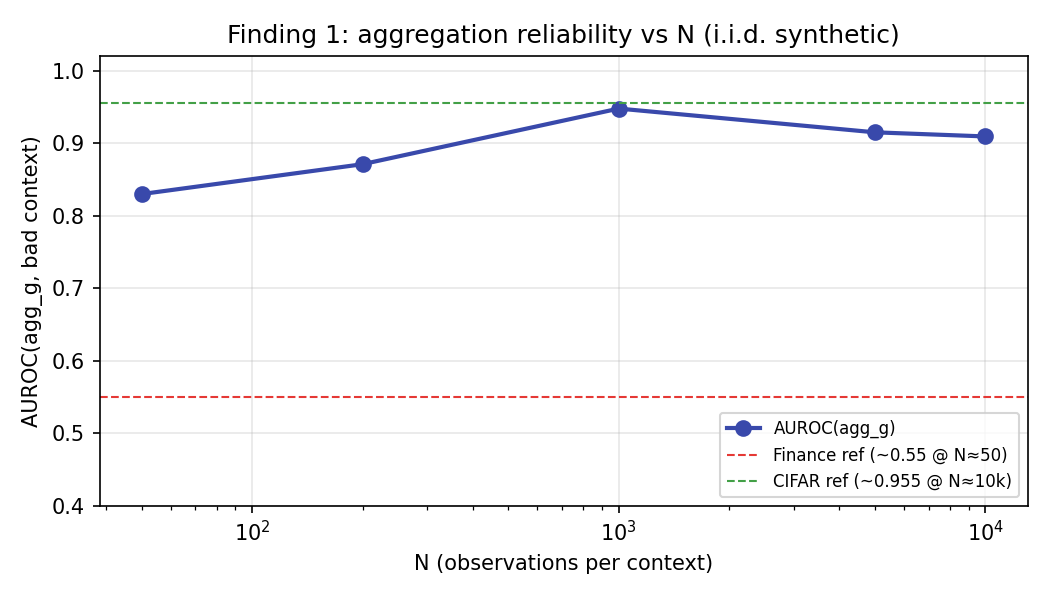
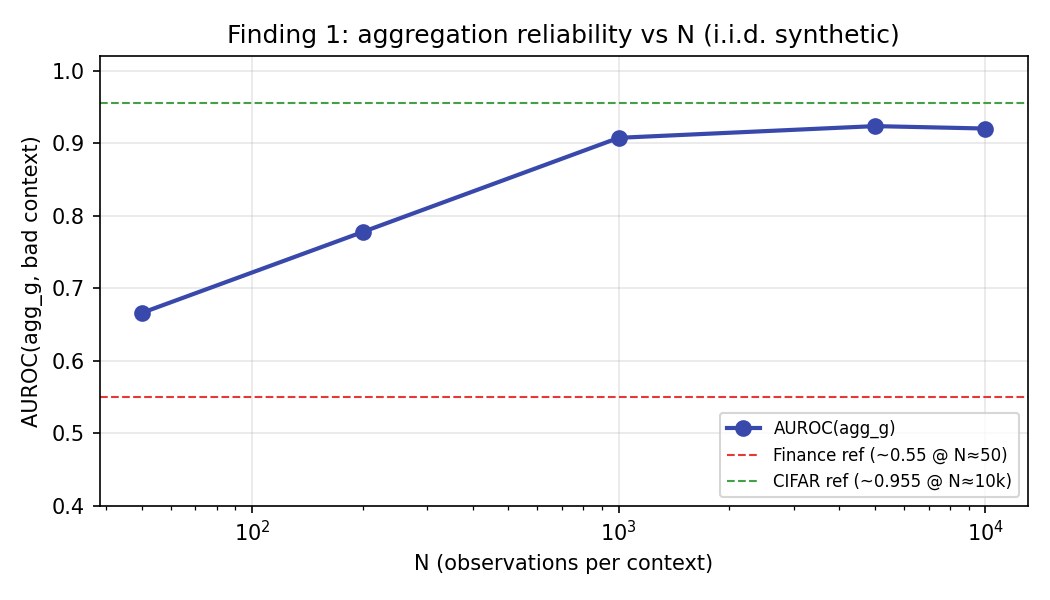
Docs: Harvard-style Sanderink (2026) citations in theory and math
Add full reference for When Alpha Breaks across theory, reliability,
decomposition, CITATION.cff, and source docstrings. Bump to v0.4.2.

diff --git a/src/deup/core/decompose.py b/src/deup/core/decompose.py
@@ -3,15 +3,15 @@
 This module turns the raw error estimate ``g(x)`` into a reported epistemic signal:
 
 - :func:`decompose_epistemic` — ``e_hat(x) = max(0, g(x) - a(x))`` (Lahlou et al.,
-  2023, Eq. 9, with the non-negativity clip used in the thesis).
+  2023, Eq. 9, with the non-negativity clip used in Sanderink, 2026).
 - :class:`RankResidualizer` — removes mechanical rank-geometry coupling from a
-  cross-sectional signal (RESEARCH_FINDINGS Finding 3). Required for rankers, where
+  cross-sectional signal (Sanderink, 2026, Finding 3). Required for rankers, where
   ``g`` / the loss target can be partly explained by the within-group rank of the
   model score rather than genuine error.
 - :func:`coupling_retention_report` — quantifies coupling reduction and loss-association
   retention before/after residualization.
 - :func:`density_kill_criterion` — drops density features that add no signal beyond
-  geometry (Finding 3 corollary), with an explicit keep/kill flag.
+  geometry (Sanderink, 2026, Finding 3 corollary), with an explicit keep/kill flag.
 """
 
 from __future__ import annotations

diff --git a/src/deup/core/features/density.py b/src/deup/core/features/density.py
@@ -19,7 +19,7 @@ def _diagonal_gaussian_log_prob(
     mu: npt.NDArray[Any],
     log_sigma2: npt.NDArray[Any],
 ) -> npt.NDArray[Any]:
-    """Closed-form diagonal-Gaussian log-density (thesis ``GaussianDensity.log_prob``).
+    """Closed-form diagonal-Gaussian log-density (Sanderink, 2026, ``GaussianDensity.log_prob``).
 
     log p(x) = -0.5 * sum_d [(x_d - mu_d)^2 / sigma2_d + log sigma2_d]
                - D/2 * log(2*pi)
@@ -39,7 +39,7 @@ class DensityFeature(BaseEstimator, TransformerMixin):
     Parameters
     ----------
     method:
-        ``"mahalanobis"`` — diagonal Gaussian MLE (Lee et al. 2018 / thesis default).
+        ``"mahalanobis"`` — diagonal Gaussian MLE (Lee et al. 2018; Sanderink, 2026 default).
         ``"knn"`` — ``-log(d_k + eps)`` where ``d_k`` is the k-th NN distance.
         ``"kde"`` — sklearn ``KernelDensity`` with Gaussian kernel.
         ``"flow"`` — normalizing flow (requires ``pip install "deup[torch]"``).

diff --git a/src/deup/diagnostics/aggregation.py b/src/deup/diagnostics/aggregation.py
@@ -6,8 +6,8 @@ error -- but only as ``N -> large`` and only if the within-context errors are
 exchangeable. With small N and temporal-regime dependence, the estimator's variance
 and bias swamp the signal.
 
-Empirical reference points (Sanderink, 2026), to be read as orientation, **not** as a
-hard promise for a user's data:
+Empirical reference points (Sanderink, 2026, *When Alpha Breaks*), to be read as
+orientation, **not** as a hard promise for a user's data:
 
     AUROC(agg_g, bad context) ~ 0.55  at N ~ 50  (non-i.i.d. finance cross-sections)
     AUROC(agg_g, bad context) ~ 0.955 at N ~ 10,000 (i.i.d. vision batches)

diff --git a/src/deup/domains/finance.py b/src/deup/domains/finance.py
@@ -3,7 +3,7 @@
 ``CrossSectionalDEUP`` wires :class:`~deup.estimators.DEUPRanker` with
 :class:`~deup.splitters.PurgedWalkForward`, rank-geometry residualization,
 vol/breadth/regime feature columns, and a default :class:`~deup.diagnostics.HealthIndex`
-for context-level gating in the low-N / non-i.i.d. regime (Finding 2).
+for context-level gating in the low-N / non-i.i.d. regime (Sanderink, 2026, Finding 2).
 """
 
 from __future__ import annotations

diff --git a/docs/theory.md b/docs/theory.md
@@ -1,9 +1,10 @@
 # Theory & mathematics
 
 This page summarizes the DEUP framework as defined by Lahlou *et al.* (2023,
-[TMLR](https://arxiv.org/abs/2102.08501)) and the risk decomposition used in this
-library. The implementation follows **Algorithm 2** (K-fold pre-fill of the error
-dataset) for honest out-of-sample error targets.
+[TMLR](https://arxiv.org/abs/2102.08501)) and extensions for cross-sectional ranking,
+aggregation reliability, and two-level deployment from Sanderink (2026). The
+implementation follows **Algorithm 2** (K-fold pre-fill of the error dataset) for
+honest out-of-sample error targets.
 
 ## Risk decomposition
 
@@ -145,10 +146,11 @@ $$
 
 `DensityFeature(method="mahalanobis")` implements this closed-form estimator.
 
-!!! note "Finding 3 — density can be null"
+!!! note "Finding 3 — density can be null (Sanderink, 2026)"
     In homogeneous tabular/finance universes, density features may add **no signal**
     beyond rank geometry. Treat density as **optional and ablatable**; rank-geometry
-    residualization (P6) is required for cross-sectional rankers.
+    residualization (P6) is required for cross-sectional rankers (Sanderink, 2026,
+    Finding 3).
 
 ## Mapping to library objects
 
@@ -168,25 +170,29 @@ flowchart LR
 `deup`'s ranking support (`DEUPRanker`, rank loss, rank-geometry residualization)
 extends DEUP from regression/classification to **cross-sectional ranking** by
 predicting *rank displacement* and defining an epistemic signal $\hat{e}$ relative to
-a point-in-time (PIT-safe) baseline. Two empirical findings motivate the library design:
+a point-in-time (PIT-safe) baseline (Sanderink, 2026). Two empirical findings from
+that work motivate the library design:
 
-- **Rank-geometry coupling.** $\hat{e}$ is structurally coupled with signal strength
+- **Rank-geometry coupling (Finding 3).** $\hat{e}$ is structurally coupled with signal strength
   (median per-date correlation between $\hat{e}$ and $|\text{score}|$ ≈ 0.6), so naive
   inverse-uncertainty sizing de-levers the strongest signals. This motivates the
   optional rank-geometry residualization in
-  [`RankResidualizer`](decomposition.md).
+  [`RankResidualizer`](decomposition.md) (Sanderink, 2026).
 - **Two-level deployment.** Uncertainty is best used as (i) a strategy-level
   regime-trust gate deciding *whether to trade* and (ii) a position-level **tail-risk
   cap** — i.e. DEUP adds value mainly as a tail-risk guard rather than a continuous
-  sizing denominator. This informs the aggregation-reliability diagnostics.
+  sizing denominator (Sanderink, 2026). This informs the aggregation-reliability
+  diagnostics (Findings 1–2; see [Reliability](reliability.md)).
 
 ## References
 
 - Lahlou, Jain, Nekoei, Butoi, Bertin, Rector-Brooks, Korablyov, Bengio (2023).
   *DEUP: Direct Epistemic Uncertainty Prediction.* TMLR.
   [arXiv:2102.08501](https://arxiv.org/abs/2102.08501)
-- Cross-sectional ranking / aggregation reliability (optional finance background):
-  [arXiv:2603.13252](https://arxiv.org/abs/2603.13252)
+- Sanderink, U. (2026) 'When Alpha Breaks: Two-Level Uncertainty for Safe Deployment
+  of Cross-Sectional Stock Rankers', *arXiv preprint* arXiv:2603.13252. Available at:
+  [https://arxiv.org/pdf/2603.13252](https://arxiv.org/pdf/2603.13252) (Accessed: 4 June
+  2026).
 - Kotelevskii *et al.* (2025a). Bregman-divergence excess risk (formal cover for DEUP).
 - Lee *et al.* (2018). Mahalanobis OOD score (diagonal Gaussian special case).
 - Hüllermeier & Waegeman (2019). Aleatoric vs epistemic uncertainty survey.

diff --git a/docs/reliability.md b/docs/reliability.md
@@ -7,14 +7,15 @@ $\text{agg\_g}(c) = \frac{1}{N_c}\sum_{i \in c} g(x_i)$. **That aggregate is onl
 trustworthy under specific conditions**, and silently exposing
 `context_uncertainty = mean(g)` without a guard is a trap.
 
-## The aggregation N / i.i.d. law (Finding 1)
+## The aggregation N / i.i.d. law (Finding 1; Sanderink, 2026)
 
 `mean(g)` over a context is a *consistent* estimator of the mean context error — but
 only as $N \to \text{large}$ **and** only if the within-context errors are
 exchangeable (i.i.d.). With small $N$ and temporal-regime dependence, the estimator's
-variance and bias swamp the signal.
+variance and bias swamp the signal (Sanderink, 2026, Finding 1).
 
-Documented empirical reference points (orientation, **not** a promise for your data):
+Documented empirical reference points from Sanderink (2026) (orientation, **not** a
+promise for your data):
 
 | Regime | N per context | i.i.d.? | AUROC(agg_g, bad context) |
 |---|---|---|---|
@@ -47,10 +48,10 @@ from deup.diagnostics import AggregationReliability
 labels, mean_g, verdict = AggregationReliability().aggregate(g, groups)
 ```
 
-## The remedy for low-N / non-i.i.d.: `HealthIndex` (Finding 2)
+## The remedy for low-N / non-i.i.d.: `HealthIndex` (Finding 2; Sanderink, 2026)
 
 When aggregated raw `g` fails, a **composite health index** that fuses
-*complementary* signals recovers context-level detection:
+*complementary* signals recovers context-level detection (Sanderink, 2026, Finding 2):
 
 $$
 H(c) = f\big(\text{realized\_efficacy}(c),\; \text{feature\_drift}(c),\;
@@ -92,14 +93,17 @@ already saturates and the composite is unnecessary.
 
 ## Empirical N-sweep (benchmark)
 
-The [N-sweep benchmark](benchmarks.md) reproduces Finding 1 on controlled synthetic
-data: AUROC(agg_g) rises to **≈0.96** at high N (i.i.d.), while low-N autocorrelated
-contexts stay near-chance and **HealthIndex** recovers detection.
+The [N-sweep benchmark](benchmarks.md) reproduces Finding 1 (Sanderink, 2026) on
+controlled synthetic data: AUROC(agg_g) rises to **≈0.96** at high N (i.i.d.), while
+low-N autocorrelated contexts stay near-chance and **HealthIndex** recovers detection.
 
 ![N-sweep](assets/n_sweep.png)
 
 ## Reference
 
-For optional background on cross-sectional ranking extensions and aggregation
-reliability in finance, see [arXiv:2603.13252](https://arxiv.org/abs/2603.13252).
-The core DEUP method remains Lahlou et al. (2023).
+Sanderink, U. (2026) 'When Alpha Breaks: Two-Level Uncertainty for Safe Deployment of
+Cross-Sectional Stock Rankers', *arXiv preprint* arXiv:2603.13252. Available at:
+[https://arxiv.org/pdf/2603.13252](https://arxiv.org/pdf/2603.13252) (Accessed: 4 June
+2026).
+
+The core DEUP method remains Lahlou *et al.* (2023).

diff --git a/docs/decomposition.md b/docs/decomposition.md
@@ -57,12 +57,12 @@ e_hat = decompose_epistemic(error_estimate, a)   # max(0, g - a)
 
 $\hat{e}$ is always non-negative.
 
-## Rank-geometry residualization (Finding 3)
+## Rank-geometry residualization (Finding 3; Sanderink, 2026)
 
 For cross-sectional rankers, $g$ and the loss target can be partly **mechanical rank
-geometry** rather than genuine error. `RankResidualizer` fits an isotonic map from the
-within-group rank of $|score|$ to the signal and subtracts it, leaving the part *not*
-explained by rank geometry.
+geometry** rather than genuine error (Sanderink, 2026, Finding 3). `RankResidualizer`
+fits an isotonic map from the within-group rank of $|score|$ to the signal and
+subtracts it, leaving the part *not* explained by rank geometry.
 
 ```python
 from deup.core import RankResidualizer, coupling_retention_report
@@ -76,16 +76,16 @@ report = coupling_retention_report(g_values, score, loss, groups=dates)
 print(report.coupling_before, report.coupling_after, report.retention)
 ```
 
-!!! note "Empirical motivation"
+!!! note "Empirical motivation (Sanderink, 2026)"
     Residualization decoupled the signal (per-date $\rho(\hat{e}, |score|)$:
     $0.616 \to 0.317$) while **retaining ~92.5%** of the loss association. This is
     **off by default** and **on in `DEUPRanker`** (P7).
 
-## Density kill criterion (Finding 3 corollary)
+## Density kill criterion (Finding 3 corollary; Sanderink, 2026)
 
-Density features can be an **informative null** in homogeneous universes. The kill
-criterion drops them when their gain importance is negligible **and** they barely move
-the loss partial-correlation.
+Density features can be an **informative null** in homogeneous universes (Sanderink,
+2026). The kill criterion drops them when their gain importance is negligible **and**
+they barely move the loss partial-correlation.
 
 ```python
 from deup.core import density_kill_criterion

diff --git a/CHANGELOG.md b/CHANGELOG.md
@@ -2,6 +2,13 @@
 
 ## [Unreleased]
 
+## [0.4.2] — 2026-06-05
+
+### Changed
+
+- Harvard-style citations for Sanderink (2026) in theory, reliability, and related docs.
+- `CITATION.cff` includes the cross-sectional ranking paper reference.
+
 ## [0.4.1] — 2026-06-05
 
 ### Changed
@@ -88,6 +95,8 @@ superseded by v0.1.1).
 
 - `DEUPRegressor`, `OOFErrorCollector`, splitters, loss registry, California housing benchmark, MkDocs site.
 
+[0.4.2]: https://github.com/ursinasanderink/deup/releases/tag/v0.4.2
+[0.4.1]: https://github.com/ursinasanderink/deup/releases/tag/v0.4.1
 [0.4.0]: https://github.com/ursinasanderink/deup/releases/tag/v0.4.0
 [0.3.2]: https://github.com/ursinasanderink/deup/releases/tag/v0.3.2
 [0.3.1]: https://github.com/ursinasanderink/deup/releases/tag/v0.3.1

diff --git a/LAUNCH.md b/LAUNCH.md
@@ -38,7 +38,10 @@ Docs: https://ursinasanderink.github.io/deup/
 Repo: https://github.com/ursinasanderink/deup
 
 **Credit:** DEUP the method is due to Lahlou, Jain, Nekoei, Butoi, Bertin, Rector-Brooks,
-Korablyov, and Bengio (2023). This package is an independent open-source implementation
-and extension for tabular and time-series workflows.
+Korablyov, and Bengio (2023). Cross-sectional ranking and aggregation-reliability
+diagnostics follow Sanderink (2026, *When Alpha Breaks*). This package is an
+independent open-source implementation and extension for tabular and time-series
+workflows.
 
-If you use it in research, please cite both the software (`CITATION.cff`) and the original paper.
+If you use it in research, please cite the software (`CITATION.cff`), Lahlou *et al.*
+(2023), and Sanderink (2026) where the finance/ranking diagnostics apply.

diff --git a/README.md b/README.md
@@ -101,7 +101,13 @@ TorchUncertainty integration.
 
 ## Citing
 
-Cite this software ([`CITATION.cff`](CITATION.cff)) **and** Lahlou et al. (2023).
+Cite this software ([`CITATION.cff`](CITATION.cff)), Lahlou *et al.* (2023) for the
+DEUP method, and Sanderink (2026) for cross-sectional ranking and aggregation-
+reliability extensions:
+
+> Sanderink, U. (2026) 'When Alpha Breaks: Two-Level Uncertainty for Safe Deployment of
+> Cross-Sectional Stock Rankers', *arXiv preprint* arXiv:2603.13252. Available at:
+> https://arxiv.org/pdf/2603.13252 (Accessed: 4 June 2026).
 
 ## License
 

diff --git a/docs/concepts.md b/docs/concepts.md
@@ -42,15 +42,16 @@ from deup.core import OOFErrorCollector, ErrorEstimator, FeaturePipeline
 from deup import DEUPRegressor
 ```
 
-## Aggregation guard (Finding 1)
+## Aggregation guard (Finding 1; Sanderink, 2026)
 
 Individual-level `g(x)` is reliable across domains. **Context-level** `mean(g)` is only
-trustworthy at high N with exchangeable errors. See
+trustworthy at high N with exchangeable errors (Sanderink, 2026, Finding 1). See
 [When is aggregated DEUP reliable?](reliability.md) and the
 [N-sweep benchmark](benchmarks.md).
 
 For low-N / non-i.i.d. (finance, time-series), use
-[`HealthIndex`](api/diagnostics.md) instead of raw `mean(g)`.
+[`HealthIndex`](api/diagnostics.md) instead of raw `mean(g)` (Sanderink, 2026,
+Finding 2).
 
 ## Further reading
 

diff --git a/docs/index.md b/docs/index.md
@@ -57,7 +57,9 @@ health = model.health_report(test_df)
 ## Attribution
 
 DEUP the *method* is due to Lahlou, Jain, Nekoei, Butoi, Bertin, Rector-Brooks,
-Korablyov, and Bengio (2023, TMLR). Please cite the original paper and this software
+Korablyov, and Bengio (2023, TMLR). Cross-sectional ranking, aggregation reliability,
+and two-level deployment diagnostics follow Sanderink (2026). Please cite the original
+DEUP paper, that work where relevant, and this software
 ([`CITATION.cff`](https://github.com/ursinasanderink/deup/blob/main/CITATION.cff)).
 
 ## Status